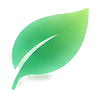
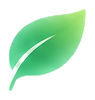
fix(конструктор): «квадраты» у авто-буллетов + 3-я кнопка тулбара не работала
БАГ 1 (авто-буллеты «стрёмные, квадраты на фоне»): у плоского пака буллетов светлые плашки/тени
давали полупрозрачные ореолы — невидимы на белом, но на ЦВЕТНОМ слайде вылезали «квадратами».
Пере-нарезал пак ЖЁСТКИМ die-cut (dist>44, без феатера плашек/теней, морфология + 0.6px AA) —
у 01/08 ореол 0.68→0.18. tools/cut_bullet_sheet.py обновлён. (Тест-маркеры со слайдов 1-2 убрал.)

БАГ 2 (быстрые кнопки текста, 3-я слева «не работает, без подписи»): кнопка «Выделить» (mark)
открывала палитру, но код ПАДАЛ в общий closePop() ниже (не было return, как у style/color) →
палитра закрывалась мгновенно. Добавил return. + дал ей понятную иконку-маркер. + кнопки Ж/К/
Выделить теперь работают с ОДНОГО клика (авто-выделение всего поля, если ничего не выделено) +
добавил кнопку «✕ Убрать формат».

Проверено (Playwright): палитра выделения = 11 цветов, применяется; Ж красит с одного клика;
✕ чистит формат; авто-буллеты — крипкие глифы без квадратов.

Changed region(s): [[0.0842, 0.0612, 0.9263, 0.9184]]

diff --git a/public/cedit.js b/public/cedit.js
@@ -517,9 +517,9 @@ body.cpanel-on{padding-right:308px!important}
     if (!field || !field.dataset || !field.dataset.ce) return;
     const isHead = /:heading$/.test(field.dataset.ce);
     const q = ensureQbar(); q._mode = 'text'; q._t = field;
-    q.innerHTML = `<button data-q="bold" title="Жирный"><b>Ж</b></button><button data-q="italic" title="Курсив"><i style="font-family:Georgia,serif">К</i></button><button data-q="mark" title="Выделить цветом"><span class="cqt-sw" style="background:linear-gradient(102deg,#2563EBcc,#7C3AEDcc)"></span></button><span class="cqt-sep"></span>` +
-      (isHead ? `<button data-q="sdown" title="Меньше заголовок">A<small>−</small></button><button data-q="sup" title="Больше заголовок">A<small>+</small></button><button data-q="style" title="Стиль текста">Стиль&nbsp;▾</button><span class="cqt-sep"></span>` : '') +
-      `<button data-q="color" title="Цвет текста"><span class="cqt-sw" style="background:conic-gradient(#ef4444,#f59e0b,#eab308,#22c55e,#3b82f6,#8b5cf6,#ef4444)"></span></button>`;
+    q.innerHTML = `<button data-q="bold" title="Жирный"><b>Ж</b></button><button data-q="italic" title="Курсив"><i style="font-family:Georgia,serif">К</i></button><button data-q="mark" title="Выделить цветом / маркер"><svg viewBox="0 0 24 24" fill="none" stroke="currentColor" stroke-width="1.7" stroke-linecap="round" stroke-linejoin="round"><path d="M15 4l5 5-9.5 9.5H5v-5.5z"/><path d="M12.5 6.5l5 5"/><path d="M4 21h16"/></svg></button><span class="cqt-sep"></span>` +
+      (isHead ? `<button data-q="sdown" title="Меньше заголовок">A<small>−</small></button><button data-q="sup" title="Больше заголовок">A<small>+</small></button><button data-q="style" title="Стиль заголовка">Стиль&nbsp;▾</button><button data-q="color" title="Цвет заголовка"><span class="cqt-sw" style="background:conic-gradient(#ef4444,#f59e0b,#eab308,#22c55e,#3b82f6,#8b5cf6,#ef4444)"></span></button><span class="cqt-sep"></span>` : '') +
+      `<button data-q="clear" title="Убрать формат и выделение">✕</button>`;
     requestAnimationFrame(() => posQbar(selRect(field)));
   }
   function showLayerQbar(lyr) {
@@ -543,14 +543,17 @@ body.cpanel-on{padding-right:308px!important}
     const q = qbar, t = q._t, a = b.dataset.q;
     if (q._mode === 'text') {
       const field = t; const host = field;
-      const needSel = () => { const s = document.getSelection(); if (!s || s.isCollapsed || !s.toString()) { flash('Сначала выделите текст'); return false; } return true; };
-      if (a === 'bold') { if (!needSel()) return; document.execCommand('bold'); dirty = true; }
-      else if (a === 'italic') { if (!needSel()) return; document.execCommand('italic'); dirty = true; }
+      /* нет выделения → выделяем весь текст поля (кнопки работают с одного клика) */
+      const ensureSel = () => { const s = document.getSelection(); field.focus(); if (!s) return false; if (s.isCollapsed || !s.toString()) { const r = document.createRange(); r.selectNodeContents(field); s.removeAllRanges(); s.addRange(r); } return !!document.getSelection().toString(); };
+      if (a === 'bold') { if (!ensureSel()) return; document.execCommand('bold'); dirty = true; save(false); }
+      else if (a === 'italic') { if (!ensureSel()) return; document.execCommand('italic'); dirty = true; save(false); }
+      else if (a === 'clear') { ensureSel(); const s2 = document.getSelection(); if (s2 && s2.rangeCount) { marksIn(s2.getRangeAt(0), host).forEach(unwrap); host.normalize(); } document.execCommand('removeFormat'); dirty = true; save(false); }
       else if (a === 'mark') {
-        if (!needSel()) return; const rc = b.getBoundingClientRect();
+        if (!ensureSel()) return; const rc = b.getBoundingClientRect();
         const sw = HL.map(([k, c, ex]) => `<span class="hlsw" data-hl="${k}" style="background:${c};${ex || ''}"></span>`).join('');
         const pp = openPop(`<div class="hlpop"><div class="hlrow">${sw}</div><button class="hloff" data-hl="off">Снять выделение</button></div>`, rc.left - 96, rc.bottom + 8);
         pp.addEventListener('mousedown', (ev) => { const x = ev.target.closest('[data-hl]'); if (!x) return; ev.preventDefault(); markSel(x.dataset.hl, host); closePop(); save(false); });
+        return;   /* иначе падение в closePop() ниже мгновенно закрывало палитру (3-я кнопка «не работала») */
       }
       else if (a === 'sdown' || a === 'sup') {
         const i = +field.closest('.slide').dataset.idx; const order = ['s', 'm', 'l']; const cur = slideEl(i).dataset.size || 'm';

diff --git a/server/index.js b/server/index.js
@@ -5935,7 +5935,7 @@ ${isEdit ? `.slide{cursor:pointer;transition:box-shadow .18s,transform .18s}.sli
 @media print{body{background:#fff;padding:0}.wrap{max-width:none;gap:0}.slide{border-radius:0;box-shadow:none;page-break-after:always;width:100vw;height:100vh;aspect-ratio:auto}.s-tbar,.s-ins,.cqt{display:none!important}.slide.sel{box-shadow:none}}
 </style></head><body>
 <div class="wrap">${slides}</div>
-${isEdit ? `<script>window.CEDIT=${JSON.stringify({ cid: c.id, key: u.searchParams.get('key'), theme: c.theme, font: c.font || 'fraunces', bodyFont: c.bodyFont || '', format: c.format || 'square', footer: c.footer || { on: false, text: '' }, counter: counter, title: c.title, llm: llm.available(), img: llm.hasImage(), themes: Object.fromEntries(Object.entries(PAGE_THEMES).map(([k, v]) => [k, { name: v.name, blue: v.blue, body: v.body }])), fonts: Object.fromEntries(Object.entries(FONT_LIB).map(([k, v]) => [k, { name: v.name, cat: v.cat, fam: v.fam, gf: v.gf }])), shapes: [...CAR_SHAPES], frames: [...CAR_FRAMES], stickers: CAR_STICKERS, tstyles: CAR_TSTYLES, tcolors: CAR_TCOLORS, templates: CAR_TEMPLATES, slideTpls: CAR_SLIDE_TPLS }).replace(/</g, '\\u003c')}<\/script><script src="/cedit.js?v=40"><\/script>` : isPrint ? '<script>window.print()<\/script>' : ''}
+${isEdit ? `<script>window.CEDIT=${JSON.stringify({ cid: c.id, key: u.searchParams.get('key'), theme: c.theme, font: c.font || 'fraunces', bodyFont: c.bodyFont || '', format: c.format || 'square', footer: c.footer || { on: false, text: '' }, counter: counter, title: c.title, llm: llm.available(), img: llm.hasImage(), themes: Object.fromEntries(Object.entries(PAGE_THEMES).map(([k, v]) => [k, { name: v.name, blue: v.blue, body: v.body }])), fonts: Object.fromEntries(Object.entries(FONT_LIB).map(([k, v]) => [k, { name: v.name, cat: v.cat, fam: v.fam, gf: v.gf }])), shapes: [...CAR_SHAPES], frames: [...CAR_FRAMES], stickers: CAR_STICKERS, tstyles: CAR_TSTYLES, tcolors: CAR_TCOLORS, templates: CAR_TEMPLATES, slideTpls: CAR_SLIDE_TPLS }).replace(/</g, '\\u003c')}<\/script><script src="/cedit.js?v=42"><\/script>` : isPrint ? '<script>window.print()<\/script>' : ''}
 </body></html>`);
       return;
     }

diff --git a/tools/cut_bullet_sheet.py b/tools/cut_bullet_sheet.py
@@ -32,7 +32,7 @@ labels = [
  'Прогресс','Рост график','Лист природа','Огонь энергия','Сердце забота','Бриллиант ценность','Корона статус',
  'Локация','Время','Документ','Щит надёжность','Команда люди','Образование','Ракета старт']
 
-T = 30      # порог «это фон» по евклид. расстоянию к bg
+T = 44      # порог «это фон» по евклид. расстоянию к bg
 FEATHER = 16
 saved = []
 for r in range(4):
@@ -58,10 +58,14 @@ for r in range(4):
         border_ids.discard(0)
         outer_bg = np.isin(lbl, list(border_ids))   # только внешний фон; ВНУТРЕННИЙ near_bg сохраняем
         # мягкая альфа: 0 на внешнем фоне, ramp по расстоянию у кромки, 255 внутри объекта
-        alpha = np.clip((dist - T) / FEATHER, 0, 1)
-        alpha[~outer_bg] = np.maximum(alpha[~outer_bg], 1.0)   # всё, что НЕ внешний фон — непрозрачно
-        alpha[outer_bg] = np.clip((dist[outer_bg] - T) / FEATHER, 0, 1)
-        a8 = (alpha * 255).astype(np.uint8)
+        # ⭐ ЖЁСТКИЙ die-cut: только уверенно-не-фон (dist>T и не тень), морфология чистит,
+        # 0.6px гаусс — только сглаживание кромки. Никаких полупрозрачных плашек/теней/ореолов
+        # (иначе на цветном слайде вылезают «квадраты»).
+        solid = (dist > T) & (~shadow)
+        solid = ndimage.binary_closing(solid, np.ones((3, 3)))
+        solid = ndimage.binary_opening(solid, np.ones((2, 2)))
+        a = ndimage.gaussian_filter(solid.astype(np.float32), 0.6)
+        a8 = (np.clip(a, 0, 1) * 255).astype(np.uint8)
         # выкидываем мелкие ошмётки (остатки цифры/подписи, блик-искры), оставляем крупные компоненты
         sol = a8 > 40
         cl, cn = ndimage.label(sol, structure=np.ones((3, 3)))
